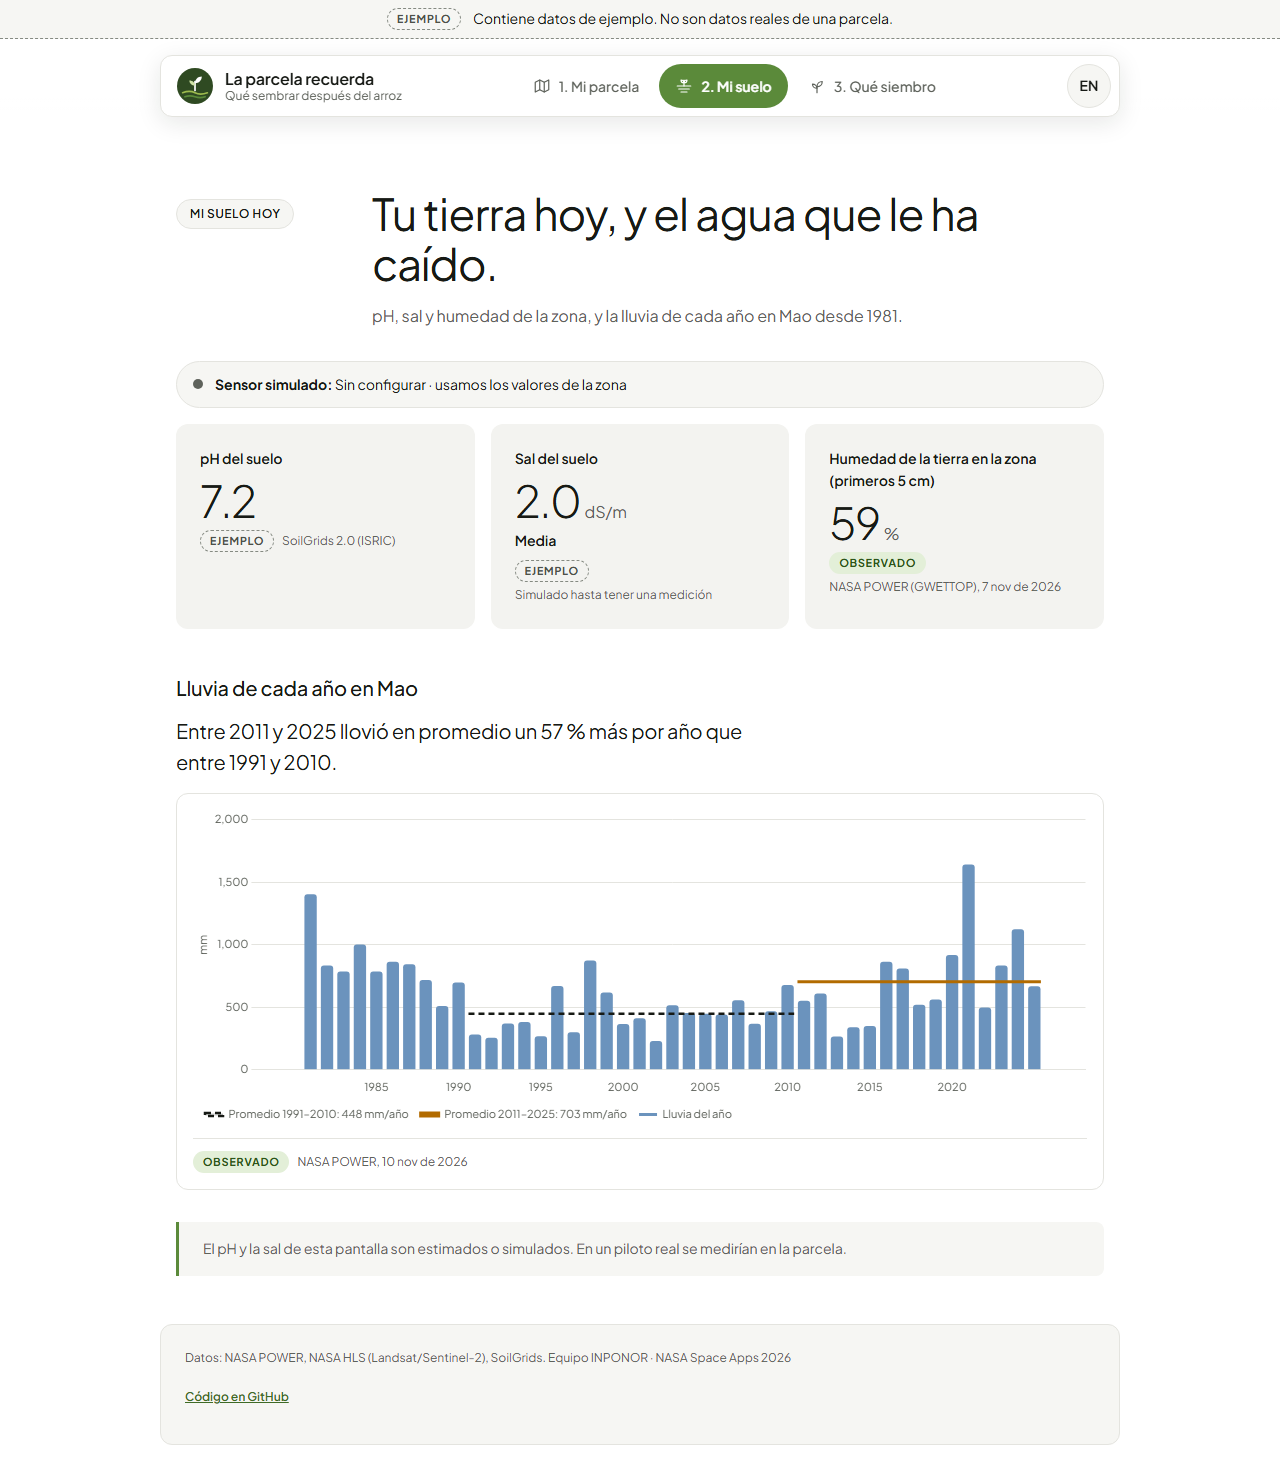
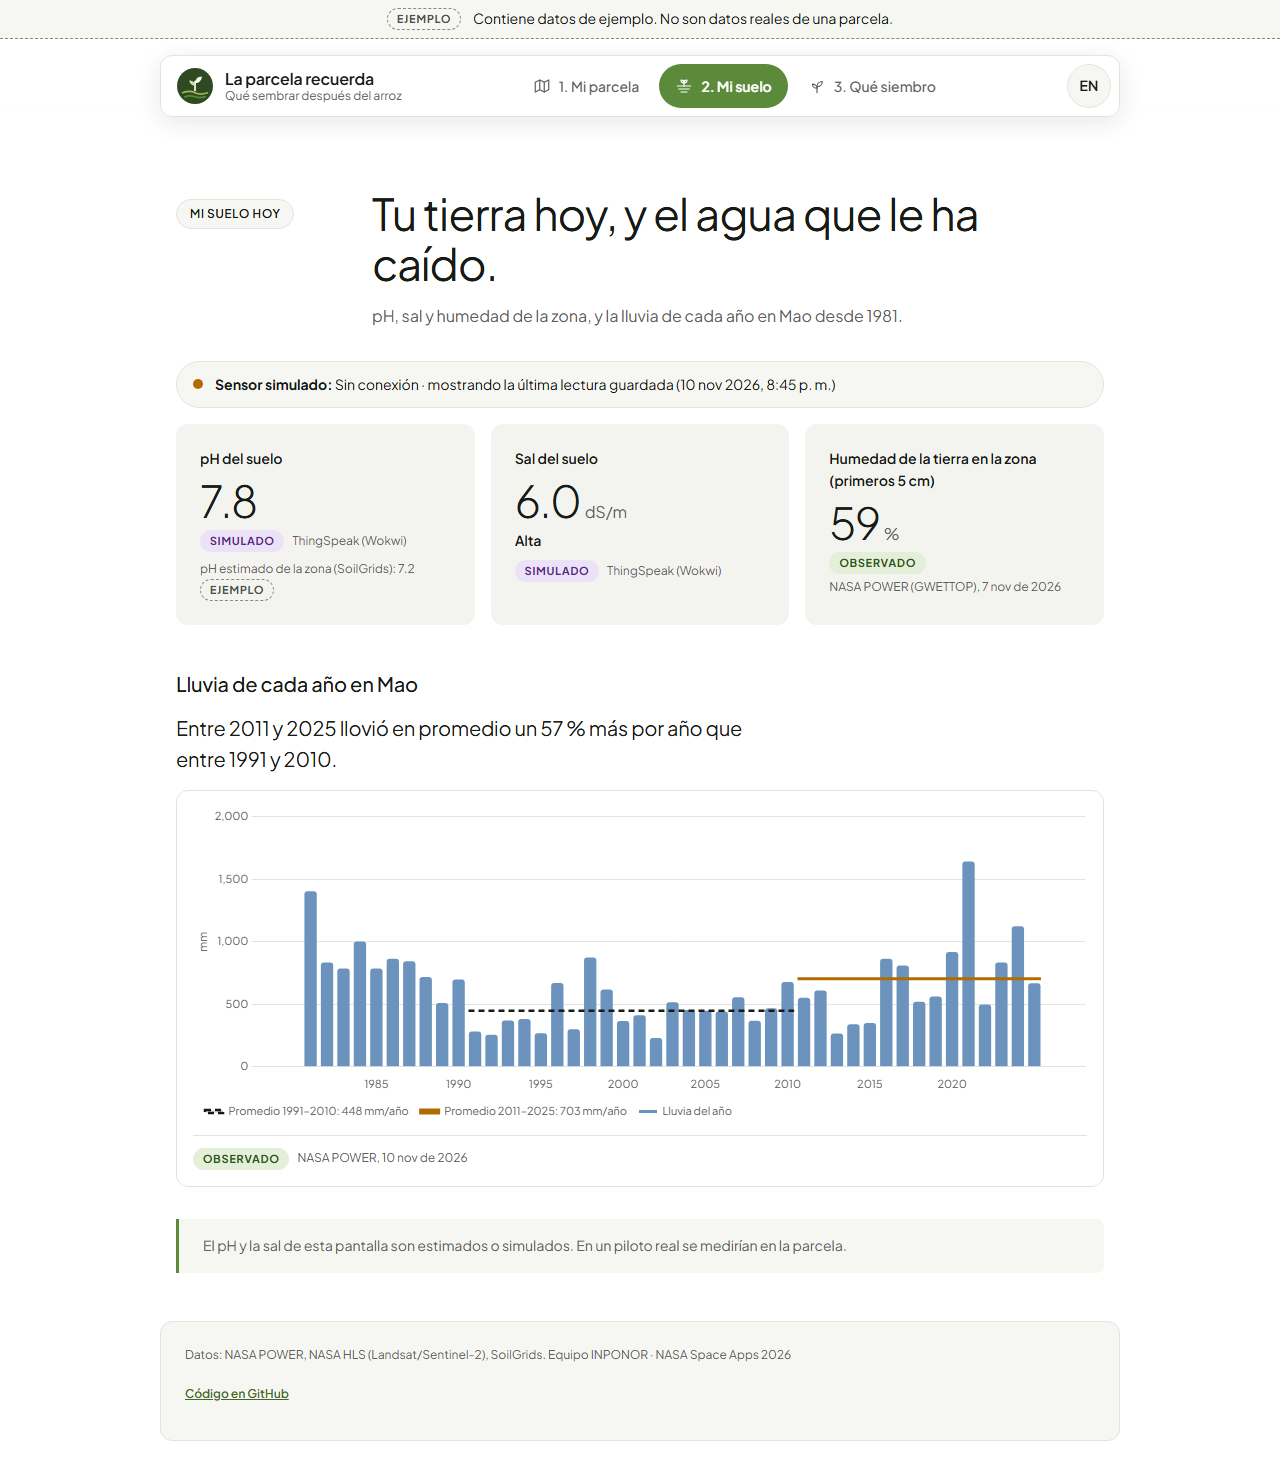
Completar la app sin datos reales
- Razones con un decimal en sal y pH (6.0 dS/m), igual que el resto de la app.
- Con una sola opción, la tarjeta explica que los demás cultivos se descartan abajo.
- PENDIENTES.md al día: solo quedan datos reales y validación; lo hecho, aparte;
  notas para la demo (Wokwi, última lectura, no mostrar la clave).
- Capturas de la app actualizadas, incluida 'Elegir mi parcela'.

diff --git a/js/motor.js b/js/motor.js
@@ -72,9 +72,17 @@ function evaluar(cuando, s, umbrales) {
   return resultado;
 }
 
+/** Señales que se muestran siempre con un decimal, igual que en el resto de la app (6.0 dS/m, pH 7.2). */
+const CON_DECIMAL = ['sal_dsm', 'ph'];
+
 function rellenar(texto, s) {
   if (!texto) return texto;
-  return texto.replace(/\{(\w+)\}/g, (_, k) => (faltante(s[k]?.valor) ? `{${k}}` : String(s[k].valor)));
+  return texto.replace(/\{(\w+)\}/g, (_, k) => {
+    const v = s[k]?.valor;
+    if (faltante(v)) return `{${k}}`;
+    if (typeof v === 'number') return CON_DECIMAL.includes(k) ? v.toFixed(1) : String(Math.round(v));
+    return String(v);
+  });
 }
 
 /**

diff --git a/PENDIENTES.md b/PENDIENTES.md
@@ -1,21 +1,36 @@
 # Pendientes
 
-Datos reales que faltan y quién los da. Mientras falte alguno, la app muestra la franja "Contiene datos de ejemplo".
+La app está completa. Lo que falta son **datos reales** y la validación del profesor. Mientras falte alguno, la app muestra la franja "Contiene datos de ejemplo".
+
+## Datos reales que faltan
 
 | Pendiente | Quién | Dónde va |
 |---|---|---|
-| Coordenadas y polígono reales de la parcela (las actuales son de relleno, en el casco urbano de Mao) | Agropecuaria | `data/parcela.json` |
+| Coordenadas y polígono reales de la parcela piloto (los actuales son de relleno, en el casco urbano de Mao) | Agropecuaria | `data/parcela.json`. También se puede marcar en la app con "Cambiar mi parcela" → "Descargar mi_parcela.geojson" y copiar el polígono. |
 | Nombre, frase y foto del agricultor, con permiso escrito | Agropecuaria | `data/parcela.json` (`permiso_uso: true` solo con el permiso firmado) |
-| Descarga de HLS en AppEEARS | Informática 2 | `scripts/raw/` → `python scripts/procesar_hls.py` |
+| Descarga de HLS en AppEEARS | Informática 2 | `scripts/raw/` → `python scripts/procesar_hls.py` (revisar juntos la primera corrida: los nombres de columnas de AppEEARS pueden variar) |
 | Volver a correr POWER y SoilGrids con las coordenadas reales | Informática 2 | `data/clima.json`, `data/suelo.json` |
 | Validar umbrales, puntajes, beneficios y límites de cultivos; confirmar el gandul con sal | Profesor de Agropecuaria | `data/umbrales.json`, `data/cultivos.json` → `pendiente_validar: false` |
 | Fuente para el ahorro de agua y urea al rotar | Agropecuaria | `data/cultivos.json` → `impacto_3_temporadas` (valor **y** fuente) |
-| Crear el canal ThingSpeak y poner su número | Electrónica | `data/config.json` → `thingspeak.canal_id` |
-| Poner la clave de escritura en Wokwi | Electrónica | `wokwi/sketch.ino` (solo en wokwi.com, no en el repo) |
+| Coordenadas de las comunidades de Valverde (opcional, para una lista en "Cambiar mi parcela") | Agropecuaria | `IDEAS.md` |
 | Confirmar en las reglas oficiales de Space Apps 2026 qué se puede preparar antes | Todo el equipo | — |
-| Capturas del diseño VERDA (pantalla completa y detalles) | Quien tenga el enlace | `docs/referencia/` — ✅ hay 4 capturas |
 
-## Estado de cada archivo de datos (10 nov 2026)
+## Ya hecho
+
+| Tarea | Estado |
+|---|---|
+| Capturas del diseño VERDA | ✅ 4 capturas en `docs/referencia/` |
+| Canal de ThingSpeak | ✅ Canal público **3573977** en `data/config.json`; la app lo lee |
+| Clave de escritura en Wokwi | ✅ Puesta solo en wokwi.com (la clave anterior quedó en el historial de GitHub y fue reemplazada) |
+| "Elegir mi parcela" en el mapa | ✅ Versión sin backend publicada |
+
+## Antes de la demo
+
+- **Wokwi:** desde la red de casa no conecta (bloqueo hacia `netwi.wokwi.com`). Probar con datos del celular y en la red del evento. Respaldo: enviar una lectura a mano con `https://api.thingspeak.com/update?api_key=CLAVE&field1=PH&field2=SAL`, esperando 15 s entre envíos.
+- **Última lectura del sensor:** la app usa la última lectura de ThingSpeak como "guardada" aunque tenga horas. Hoy es pH 7.8 y sal 6.0, así que recomienda solo sorgo. Para mostrar el caso de "tierra cansada" (leguminosas), enviar antes una lectura con sal baja, por ejemplo `field2=1.5`.
+- **No mostrar la clave** en pantalla ni en capturas (barra de direcciones, `sketch.ino` de Wokwi).
+
+## Estado de cada archivo de datos
 
 | Archivo | Estado | Nota |
 |---|---|---|
@@ -24,7 +39,7 @@ Datos reales que faltan y quién los da. Mientras falte alguno, la app muestra l
 | `data/historia.json` | `EJEMPLO` | Serie sintética creíble (2013–2026, 26 ciclos de arroz, una temporada sin arroz en 2024). Se reemplaza con `procesar_hls.py`. |
 | `data/parcela.json` | `EJEMPLO` | Coordenadas, polígono y agricultor de relleno. El área (≈ 221 tareas) se calcula del polígono. |
 | `data/umbrales.json`, `data/cultivos.json` | Pendientes de validar | La app muestra la nota "Umbrales pendientes de validación por el profesor". Los umbrales de sal son aproximados (FAO 29) y están marcados "por confirmar". |
-| `data/config.json` | `canal_id: PENDIENTE` | Sin canal, la app no intenta conectarse y usa SoilGrids o el ejemplo. |
+| `data/config.json` | ✅ Listo | Canal de ThingSpeak 3573977 |
 
 ## Para quitar la franja de ejemplo
 
